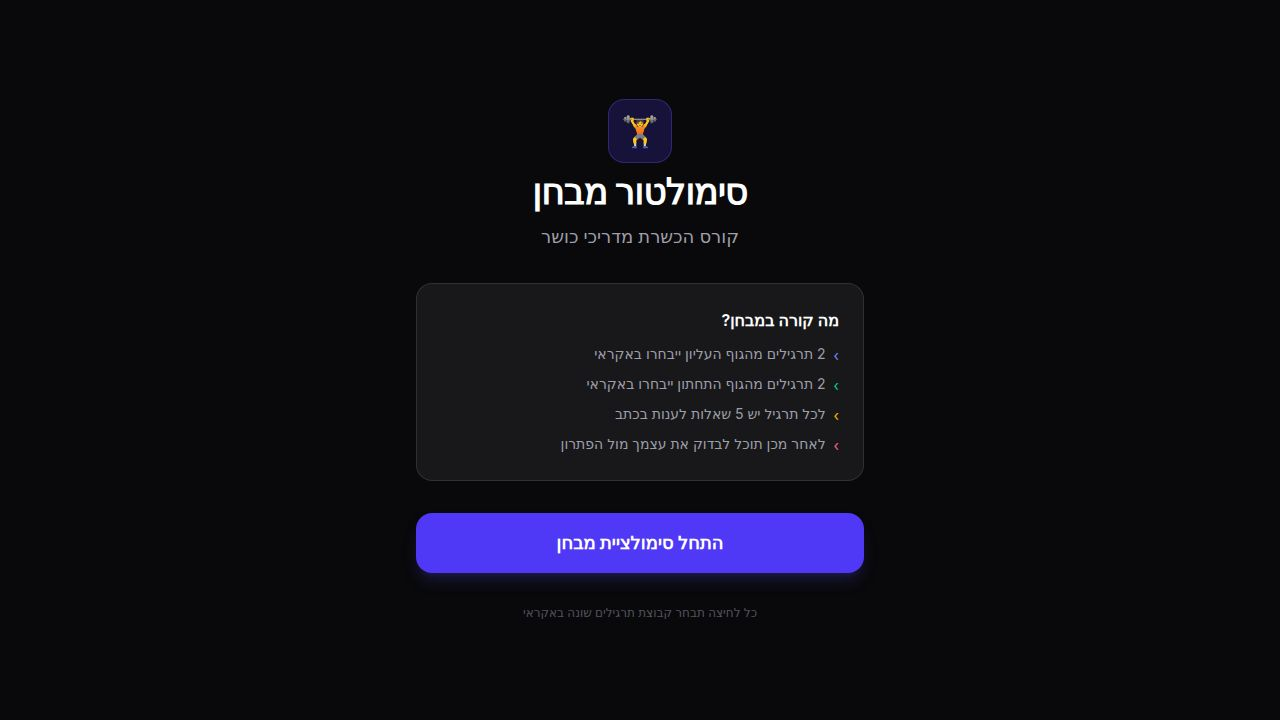
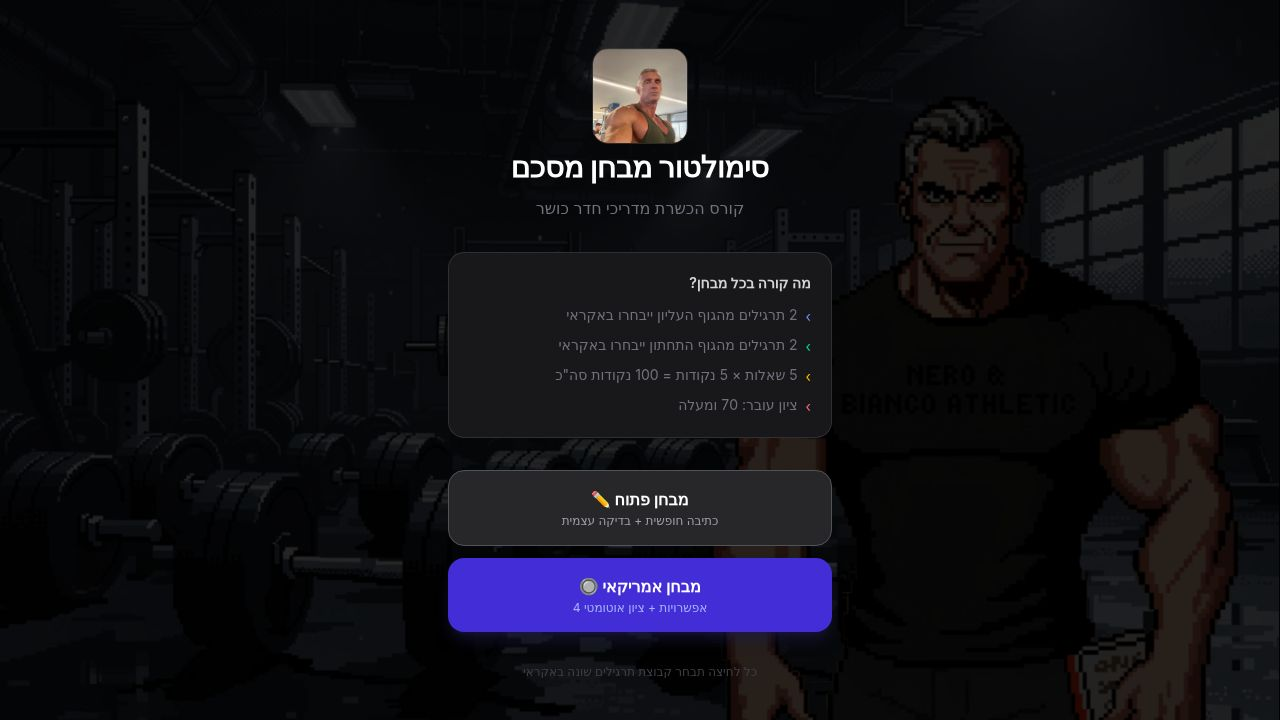
Add detailed review of answers after multiple-choice exams
Introduces an MCReview component to display a detailed breakdown of user answers, including correct and incorrect responses with visual indicators, within the ScoreScreen.

Replit-Commit-Author: Agent
Replit-Commit-Session-Id: 9143d890-b023-4bdc-b5b4-8bb380b214ff
Replit-Commit-Checkpoint-Type: full_checkpoint
Replit-Commit-Event-Id: 3d6d1144-3095-49bb-bb6d-e5ea3c8b7049
Replit-Commit-Screenshot-Url: https://storage.googleapis.com/screenshot-production-us-central1/94a41133-2538-4be9-8b8a-e48590df2fb8/9143d890-b023-4bdc-b5b4-8bb380b214ff/ts1NdE7
Replit-Helium-Checkpoint-Created: true

diff --git a/artifacts/exam-simulator/src/components/ExamSimulator.tsx b/artifacts/exam-simulator/src/components/ExamSimulator.tsx
@@ -3,6 +3,82 @@ import { Exercise, upperBodyExercises, lowerBodyExercises } from "../data/exerci
 import { MultipleChoiceCard, QuestionKey as MCQuestionKey, questions as mcQuestions } from "./MultipleChoiceCard";
 import { OpenEndedCard, QuestionKey as OEQuestionKey, questions as oeQuestions, ExamPhase } from "./OpenEndedCard";
 
+// ── MC Review ──────────────────────────────────────────────────────────────
+function MCReview({
+  exercises,
+  answers,
+}: {
+  exercises: Exercise[];
+  answers: Record<string, Record<string, string>>;
+}) {
+  return (
+    <div className="space-y-4 text-right" dir="rtl">
+      <h2 className="text-white font-bold text-lg">סקירת תשובות</h2>
+      {exercises.map((exercise, ei) => {
+        const exAnswers = answers[exercise.id] ?? {};
+        return (
+          <div key={exercise.id} className="bg-zinc-900 border border-zinc-700/60 rounded-2xl overflow-hidden">
+            {/* Exercise header */}
+            <div className="px-4 py-3 border-b border-zinc-700/60 flex items-center gap-2">
+              <span className="text-zinc-600 font-mono text-xs shrink-0">#{ei + 1}</span>
+              <h3 className="text-white font-bold text-sm">{exercise.name}</h3>
+            </div>
+
+            {/* Questions */}
+            <div className="divide-y divide-zinc-800">
+              {mcQuestions.map((q, qi) => {
+                const chosen = exAnswers[q.key];
+                const correct = exercise.solution[q.key];
+                const isRight = chosen === correct;
+                return (
+                  <div key={q.key} className="px-4 py-3 space-y-2">
+                    {/* Question label */}
+                    <div className="flex items-center gap-2">
+                      <span
+                        className={`shrink-0 w-5 h-5 rounded-full flex items-center justify-center text-xs font-bold ${
+                          isRight
+                            ? "bg-emerald-700/50 text-emerald-300"
+                            : "bg-red-800/50 text-red-300"
+                        }`}
+                      >
+                        {qi + 1}
+                      </span>
+                      <p className="text-zinc-400 text-xs font-semibold flex-1">{q.label}</p>
+                      <span className="text-base">{isRight ? "✓" : "✗"}</span>
+                    </div>
+
+                    {/* User's answer */}
+                    <div
+                      className={`rounded-xl px-3 py-2 text-xs leading-relaxed border ${
+                        isRight
+                          ? "bg-emerald-900/30 border-emerald-700/50 text-emerald-200"
+                          : "bg-red-900/30 border-red-700/50 text-red-200"
+                      }`}
+                    >
+                      <span className="text-zinc-500 block mb-0.5 text-[10px]">
+                        {isRight ? "תשובתך (נכון)" : "תשובתך (שגוי)"}
+                      </span>
+                      {chosen ?? <span className="italic text-zinc-600">לא נענה</span>}
+                    </div>
+
+                    {/* Correct answer — only shown when wrong */}
+                    {!isRight && (
+                      <div className="rounded-xl px-3 py-2 text-xs leading-relaxed border bg-emerald-900/20 border-emerald-700/40 text-emerald-200">
+                        <span className="text-emerald-500 block mb-0.5 text-[10px]">התשובה הנכונה</span>
+                        {correct}
+                      </div>
+                    )}
+                  </div>
+                );
+              })}
+            </div>
+          </div>
+        );
+      })}
+    </div>
+  );
+}
+
 type ExamMode = "open" | "multiple_choice";
 type AppPhase = "landing" | "taking" | "reviewing" | "scored";
 
@@ -164,19 +240,24 @@ function ScoreScreen({
   onReset,
   onNewExam,
   examMode,
+  exercises,
+  mcAnswers,
 }: {
   score: number;
   onReset: () => void;
   onNewExam: () => void;
   examMode: ExamMode;
+  exercises: Exercise[];
+  mcAnswers: Record<string, Record<string, string>>;
 }) {
   const passed = score >= PASS_THRESHOLD;
   return (
-    <div className="min-h-screen flex flex-col items-center justify-center px-4 py-12">
-      <div className="max-w-sm w-full space-y-6 text-center">
+    <div className="min-h-screen px-4 py-10 safe-top safe-bottom">
+      <div className="max-w-xl mx-auto space-y-6">
+
         {/* Score card */}
         <div
-          className={`rounded-3xl border p-8 space-y-4 ${
+          className={`rounded-3xl border p-8 space-y-4 text-center ${
             passed
               ? "bg-emerald-950/40 border-emerald-700/50"
               : "bg-red-950/40 border-red-800/50"
@@ -212,8 +293,13 @@ function ScoreScreen({
           </div>
         )}
 
+        {/* MC answer review */}
+        {examMode === "multiple_choice" && exercises.length > 0 && (
+          <MCReview exercises={exercises} answers={mcAnswers} />
+        )}
+
         {/* Action buttons */}
-        <div className="space-y-3">
+        <div className="space-y-3 pb-10">
           <button
             onClick={onNewExam}
             className="w-full py-4 rounded-2xl bg-indigo-700 hover:bg-indigo-600 active:bg-indigo-800 text-white font-bold text-base transition-colors min-h-[52px]"
@@ -400,6 +486,8 @@ export function ExamSimulator() {
         examMode={examMode}
         onReset={resetToLanding}
         onNewExam={() => startExam(examMode)}
+        exercises={selectedExercises}
+        mcAnswers={allAnswers}
       />
     );
   }